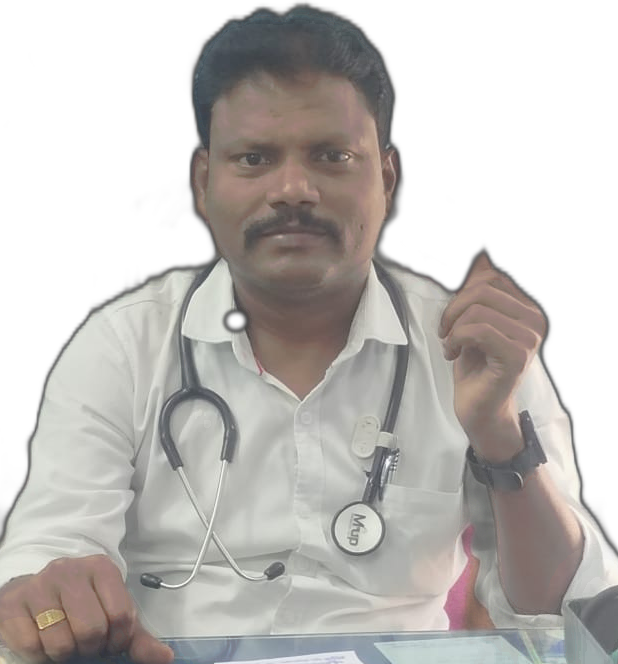
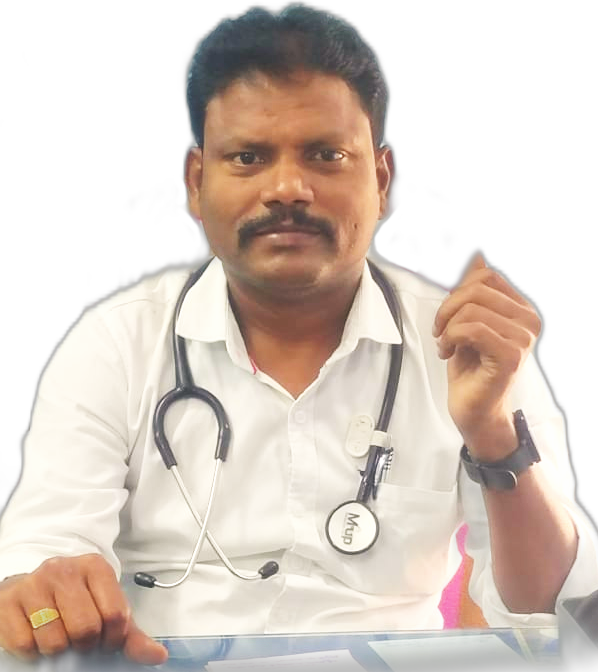
image modifications done

diff --git a/index.html b/index.html
@@ -40,7 +40,7 @@
           <div class="info__border">
             <div class="info__perfill">
               <img
-                src="assets/img/bsrao4.png"
+                src="assets/img/bsrao5.png"
                 alt="card  image"
                 class="info__img"
               />
